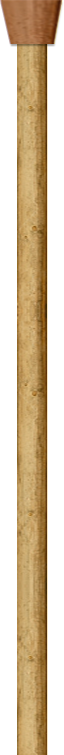
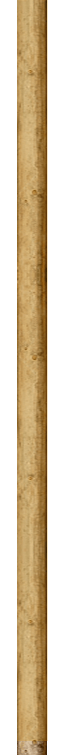
mast erin

diff --git a/app/stylesheets/styles.css b/app/stylesheets/styles.css
@@ -199,7 +199,7 @@ body.overview-page {
 	line-height: 44px;
 	float: left;
 	font-family: Wellfleet;
-	margin-left: 110px;
+	margin-left: 136px;
 }
 
 /*
@@ -440,6 +440,12 @@ body.overview-page {
 	left: 260px;
 	z-index: 15;
 	background: url('../images/mast.png') repeat-y;
+}
+
+.mast-top {
+	width: 64px;
+	height: 47px;
+	background: url('../images/mast-top.png') repeat;
 }
 
 .mast .pirate {

diff --git a/app/index.php b/app/index.php
@@ -72,6 +72,7 @@ if (isSet($_GET['username'])){
 		</header>
 		
 		<section class="mast" data-role="mast">
+			<div class="mast-top"></div>
 			<span class="pirate"></span>
 		</section>
 		
